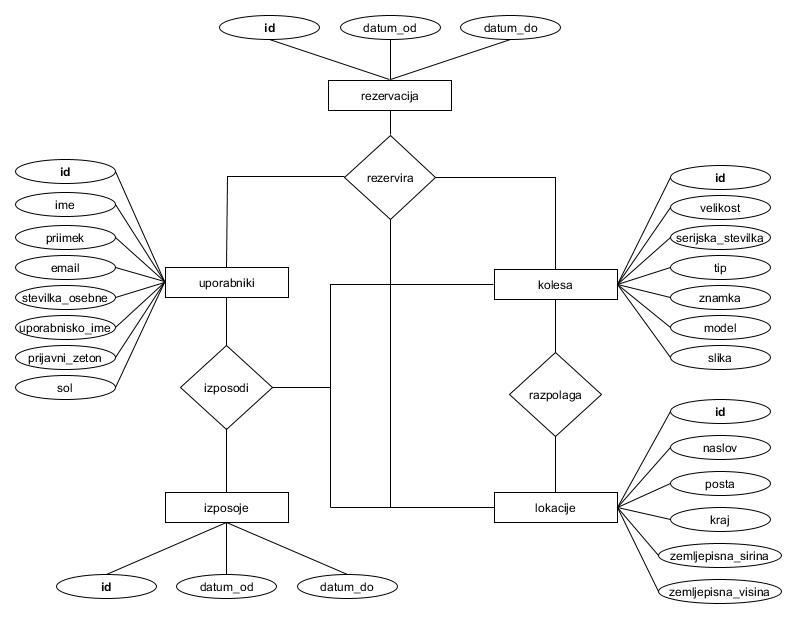
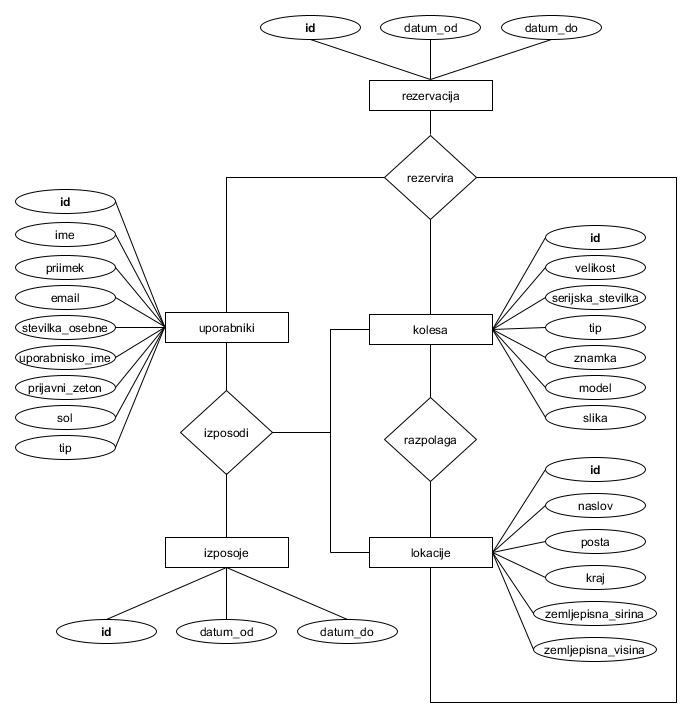
posodobljen ER, več podatkov, razširjen spletni vmesnik

diff --git a/spletni_vmesnik.py b/spletni_vmesnik.py
@@ -1,31 +1,34 @@
 # coding=utf8
 
-from bottle import get, post, redirect, run, template, request, response
+from bottle import get, post, redirect, run, template, request, response, static_file
 import random
 import bottle
 import modeli
+from modeli import Uporabnik
 import pomozne
 
 bottle.TEMPLATE_PATH.insert(0, './pogledi')
 
+@get('/slike/<pot:re:.*\.(jpg|png)>')
+def slike(pot):
+    return static_file(pot, root='slike')
+
 @get('/')
 def indeks():
-    id = request.get_cookie('seja')
-    uporabnisko_ime = pomozne.vrni_uporabnika_iz_seje(id)
-    uporabnik = modeli.podatki_uporabnika(uporabnisko_ime)
-    return template('indeks', ime = uporabnik['ime'], priimek = uporabnik['priimek'])
+    lokacije = modeli.vrni_lokacije()
+    return template('indeks', lokacije = lokacije)
 
 @get('/registracija')
 def registracija():
     return template('registracija')
-    
+
 @post('/registracija')
 def registracija_post():
     geslo = request.forms.get('geslo')
     potrditev = request.forms.get('potrditev')
     if geslo != potrditev:
         return template('registracija')
-    
+
     ime = request.forms.get('ime')
     priimek = request.forms.get('priimek')
     uporabnisko_ime = request.forms.get('uporabnisko_ime')
@@ -34,15 +37,15 @@ def registracija_post():
 
     sol = random.randint(1, 100000000)
     prijavni_zeton = pomozne.kriptiraj_geslo(geslo, sol)
-    
-    modeli.dodaj_uporabnika(ime, priimek, email, stevilka_osebne, uporabnisko_ime, prijavni_zeton, sol)
-    
+
+    modeli.dodaj_uporabnika(ime, priimek, email, stevilka_osebne, uporabnisko_ime, prijavni_zeton, sol, Uporabnik.NAVADEN)
+
     return template('registracija')
-    
+
 @get('/prijava')
 def prijava():
     return template('prijava')
-    
+
 @post('/prijava')
 def prijava_post():
     uporabnisko_ime = request.forms.get('uporabnisko_ime')
@@ -50,14 +53,36 @@ def prijava_post():
 
     if uporabnik == None:
         return template('prijava')
-    
+
     zeton = pomozne.kriptiraj_geslo(request.forms.get('geslo'), uporabnik['sol'])
-    
+
     if uporabnik['prijavni_zeton'] != zeton:
         return template('prijava')
 
     id = pomozne.generiraj_sejo(uporabnisko_ime)
     response.set_cookie('seja', id)
+
+    if uporabnik['tip'] == Uporabnik.ADMINISTRATOR:
+        return redirect('/admin')
+
     return redirect('/')
+
+@post('/izbira_kolesa')
+def izbira_kolesa():
+    lokacija = request.forms.get('lokacija')
+
+    kolesa = modeli.vrni_kolesa()
+
+    return template('izbira_kolesa', kolesa = kolesa)
+
+@get('/admin')
+def admin():
+    uporabnisko_ime = pomozne.vrni_uporabnika_iz_seje(request.get_cookie('seja'))
+    uporabnik = modeli.podatki_uporabnika(uporabnisko_ime)
+
+    if uporabnik == None or uporabnik['tip'] != Uporabnik.ADMINISTRATOR:
+        return redirect('/')
+
+    return template('admin')
 
 run(reloader=True, debug=True)

diff --git a/baza.py b/baza.py
@@ -1,6 +1,8 @@
 # coding=utf8
 
 import csv
+import random
+import pomozne
 
 def pobrisi_tabele(conn):
     # Pobriše vse tabele iz baze
@@ -21,7 +23,8 @@ def ustvari_tabele(conn):
             stevilka_osebne INTEGER NOT NULL,
             uporabnisko_ime VARCHAR NOT NULL,
             prijavni_zeton VARCHAR NOT NULL,
-            sol INTEGER NOT NULL
+            sol INTEGER NOT NULL,
+            tip INTEGER NOT NULL
         )
     """)
     
@@ -76,9 +79,25 @@ def ustvari_tabele(conn):
         )
     """)
 
+def uvozi_uporabnike(conn):
+    # Uvozi uporabnike
+    with open('podatki/uporabniki.csv', encoding='utf-8') as datoteka:
+        podatki = csv.reader(datoteka)
+        stolpci = next(podatki)
+
+        poizvedba = """
+            INSERT INTO uporabniki VALUES ({})
+        """.format(', '.join(["?"] * (len(stolpci) - 1)))
+        for vrstica in podatki:
+            sol = random.randint(1, 100000000)
+            vrstica[6] = pomozne.kriptiraj_geslo(vrstica[9], sol)
+            vrstica[7] = sol
+            del vrstica[9]
+            conn.execute(poizvedba, vrstica)
+
 def uvozi_lokacije(conn):
     # Uvozi lokacije
-    with open('podatki/lokacije.csv') as datoteka:
+    with open('podatki/lokacije.csv', encoding='utf-8') as datoteka:
         podatki = csv.reader(datoteka)
         stolpci = next(podatki)
 
@@ -88,12 +107,26 @@ def uvozi_lokacije(conn):
         for vrstica in podatki:
             conn.execute(poizvedba, vrstica)
 
+def uvozi_kolesa(conn):
+    # Uvozi kolesa
+    with open('podatki/kolesa.csv', encoding='utf-8') as datoteka:
+        podatki = csv.reader(datoteka)
+        stolpci = next(podatki)
+        
+        poizvedba = """
+            INSERT INTO kolesa VALUES ({})
+        """.format(', '.join(["?"] * len(stolpci)))
+        for vrstica in podatki:
+            conn.execute(poizvedba, vrstica)
+
 def ustvari_bazo(conn):
     # Postavi bazo
     pobrisi_tabele(conn)
     ustvari_tabele(conn)
 
+    uvozi_uporabnike(conn)
     uvozi_lokacije(conn)
+    uvozi_kolesa(conn)
 
 def ustvari_bazo_ce_ne_obstaja(conn):
     # Ustvari bazo, če ta še ne obstaja

diff --git a/tekstovni_vmesnik.py b/tekstovni_vmesnik.py
@@ -3,6 +3,7 @@
 import random
 import getpass
 import modeli
+from modeli import Uporabnik
 import pomozne
 
 def izberi_moznost(moznosti):
@@ -17,7 +18,7 @@ def izberi_moznost(moznosti):
             if 1 <= n <= len(moznosti):
                 return n
 
-def dodaj_uporabnika():
+def dodaj_uporabnika(tip):
     # Vnos podatkov o uporabniku
     print('Vnesi podatke o uporabniku')
     ime = input('Ime: ')
@@ -35,9 +36,9 @@ def dodaj_uporabnika():
     sol = random.randint(1, 100000000)
     prijavni_zeton = pomozne.kriptiraj_geslo(geslo, sol)
 
-    modeli.dodaj_uporabnika(ime, priimek, email, stevilka_osebne, uporabnisko_ime, prijavni_zeton, sol)
+    modeli.dodaj_uporabnika(ime, priimek, email, stevilka_osebne, uporabnisko_ime, prijavni_zeton, sol, tip)
     return True
-    
+
 def izpisi_uporabnike():
     # Izpis podatkov o uporabnikih
     print('Podatki o uporabnikih')
@@ -60,7 +61,7 @@ def dodaj_kolo():
     znamka = input('Znamka: ')
     model = input('Model: ')
     lokacija = int(input('Lokacija: '))
-    serijska_stevilka = input('Serijska stevilka: ')
+    serijska_stevilka = input('Serijska številka: ')
     velikost = input('Velikost okvirja: ')
 
     modeli.dodaj_kolo(velikost, serijska_stevilka, tip, znamka, model, '', lokacija)
@@ -86,21 +87,24 @@ def pokazi_moznosti():
     print(50 * '-')
     izbira = izberi_moznost([
         'dodaj uporabnika',
-        'izpisi uporabnike',
+        'dodaj administratorja',
+        'izpiši uporabnike',
         'dodaj kolo',
         'izpisi kolesa',
         'izhod'
     ])
 
     if izbira == 1:
-        dodaj_uporabnika()
+        dodaj_uporabnika(Uporabnik.NAVADEN)
     elif izbira == 2:
-        izpisi_uporabnike()
+        dodaj_uporabnika(Uporabnik.ADMINISTRATOR)
     elif izbira == 3:
-        dodaj_kolo()
+        izpisi_uporabnike()
     elif izbira == 4:
-        izpis_koles()
+        dodaj_kolo()
     elif izbira == 5:
+        izpis_koles()
+    elif izbira == 6:
         exit()
 
 def main():

diff --git a/modeli.py b/modeli.py
@@ -2,6 +2,16 @@
 
 import sqlite3
 import baza
+import enum
+import pomozne
+
+class Uporabnik(enum.IntEnum):
+    NAVADEN = 0
+    ADMINISTRATOR = 1
+
+class Izposoje(enum.IntEnum):
+    AKTIVNA = 0
+    ZAKLJUCENA = 1
 
 conn = sqlite3.connect('izposojevalnica.db')
 conn.execute('PRAGMA foreign_keys = ON')
@@ -15,15 +25,15 @@ def dictionary_factory(cur, row):
 
 conn.row_factory = dictionary_factory
 
-def dodaj_uporabnika(ime, priimek, email, stevilka_osebne, uporabnisko_ime, prijavni_zeton, sol):
+def dodaj_uporabnika(ime, priimek, email, stevilka_osebne, uporabnisko_ime, prijavni_zeton, sol, tip):
     # Doda novega uporabnika v tabelo uporabnik
     with conn:
         conn.execute("""
             INSERT INTO uporabniki
-                (ime, priimek, email, stevilka_osebne, uporabnisko_ime, prijavni_zeton, sol)
+                (ime, priimek, email, stevilka_osebne, uporabnisko_ime, prijavni_zeton, sol, tip)
             VALUES
-                (?, ?, ?, ?, ?, ?, ?)
-        """, [ime, priimek, email, stevilka_osebne, uporabnisko_ime, prijavni_zeton, sol])
+                (?, ?, ?, ?, ?, ?, ?, ?)
+        """, [ime, priimek, email, stevilka_osebne, uporabnisko_ime, prijavni_zeton, sol, int(tip)])
 
 def vrni_uporabnike():
     # Vrne seznam uporabnike
@@ -53,6 +63,20 @@ def vrni_kolesa_na_lokaciji(lokacija):
         SELECT * FROM kolesa WHERE lokacija = ?
     """, [lokacija]).fetchall()
 
-def commit():
-    # Shrani stanje baze
-    conn.commit()
+def vrni_kolesa():
+    # Vrne vse podatke o vseh kolesih
+    return conn.execute("""
+        SELECT * FROM kolesa
+    """).fetchall()
+
+def vrni_lokacije():
+    # Vrne podatke o vseh lokacijah
+    return conn.execute("""
+        SELECT * FROM lokacije
+    """).fetchall()
+
+def vrni_rezervacije():
+    # Vrne rezervacije
+    return conn.execute("""
+        SELECT * FROM rezervacije
+    """).fetchall()
